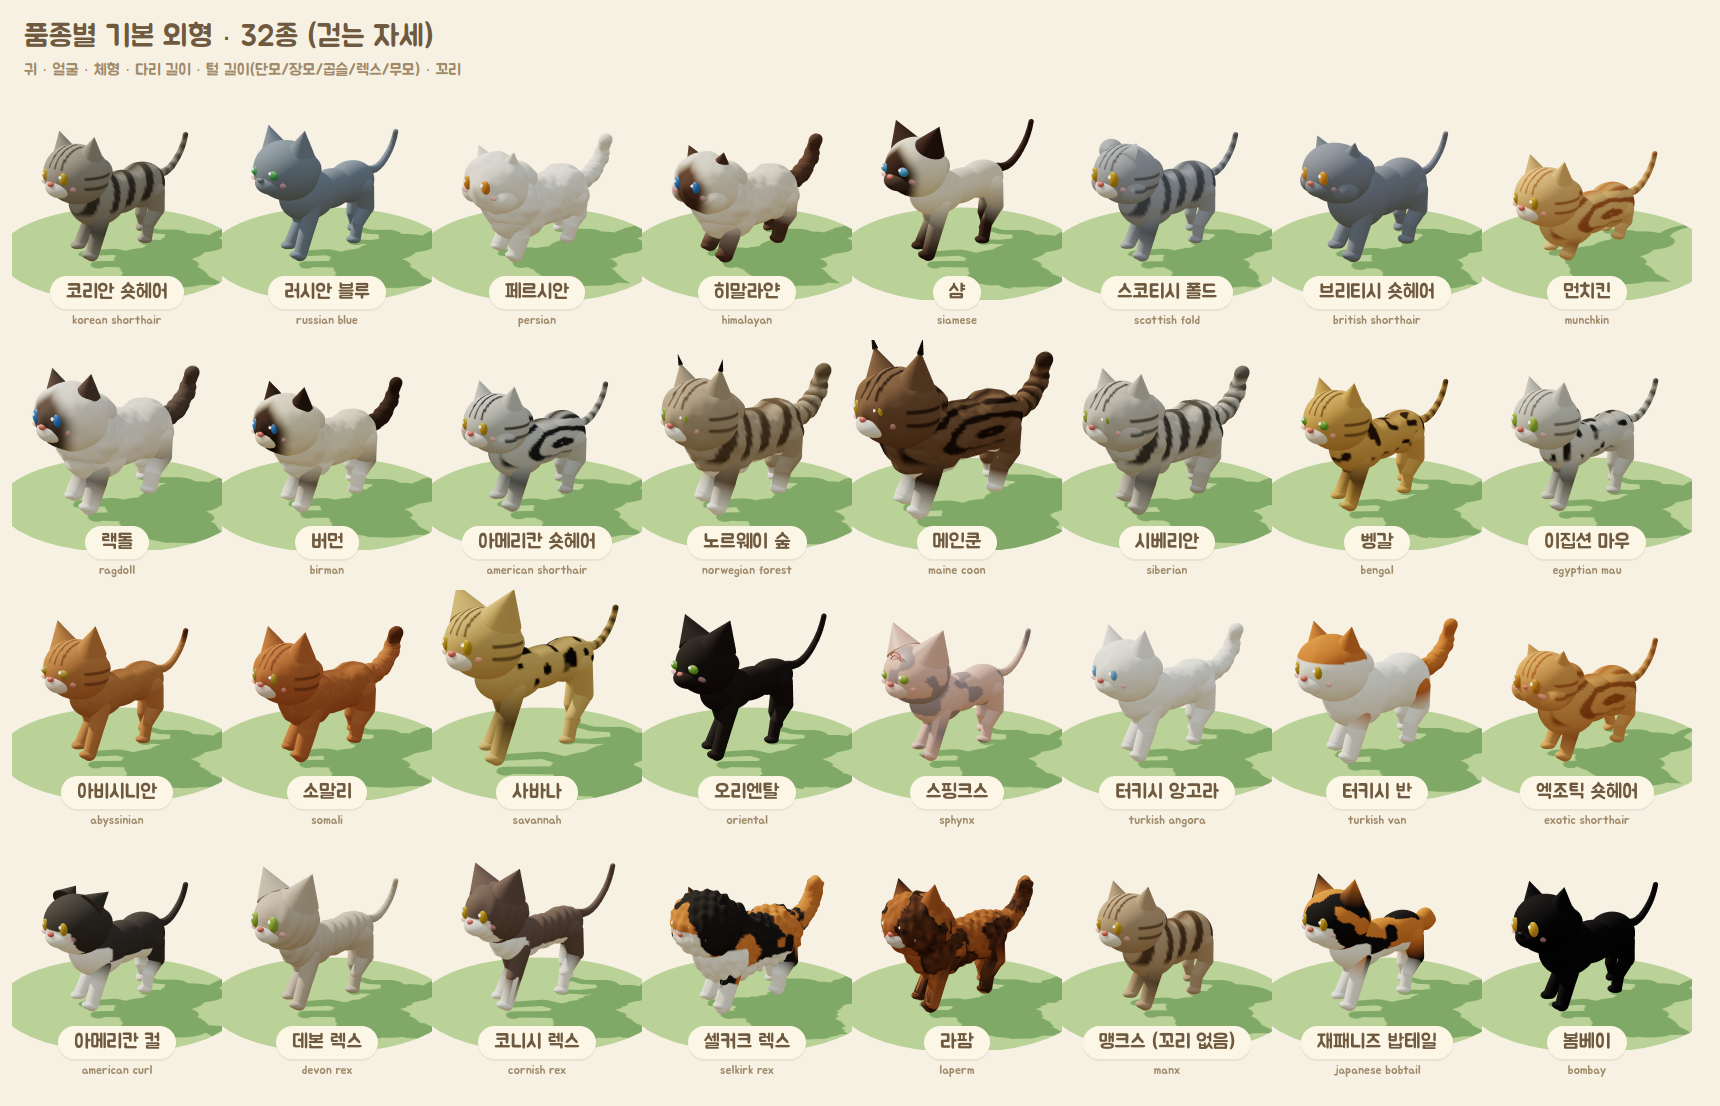
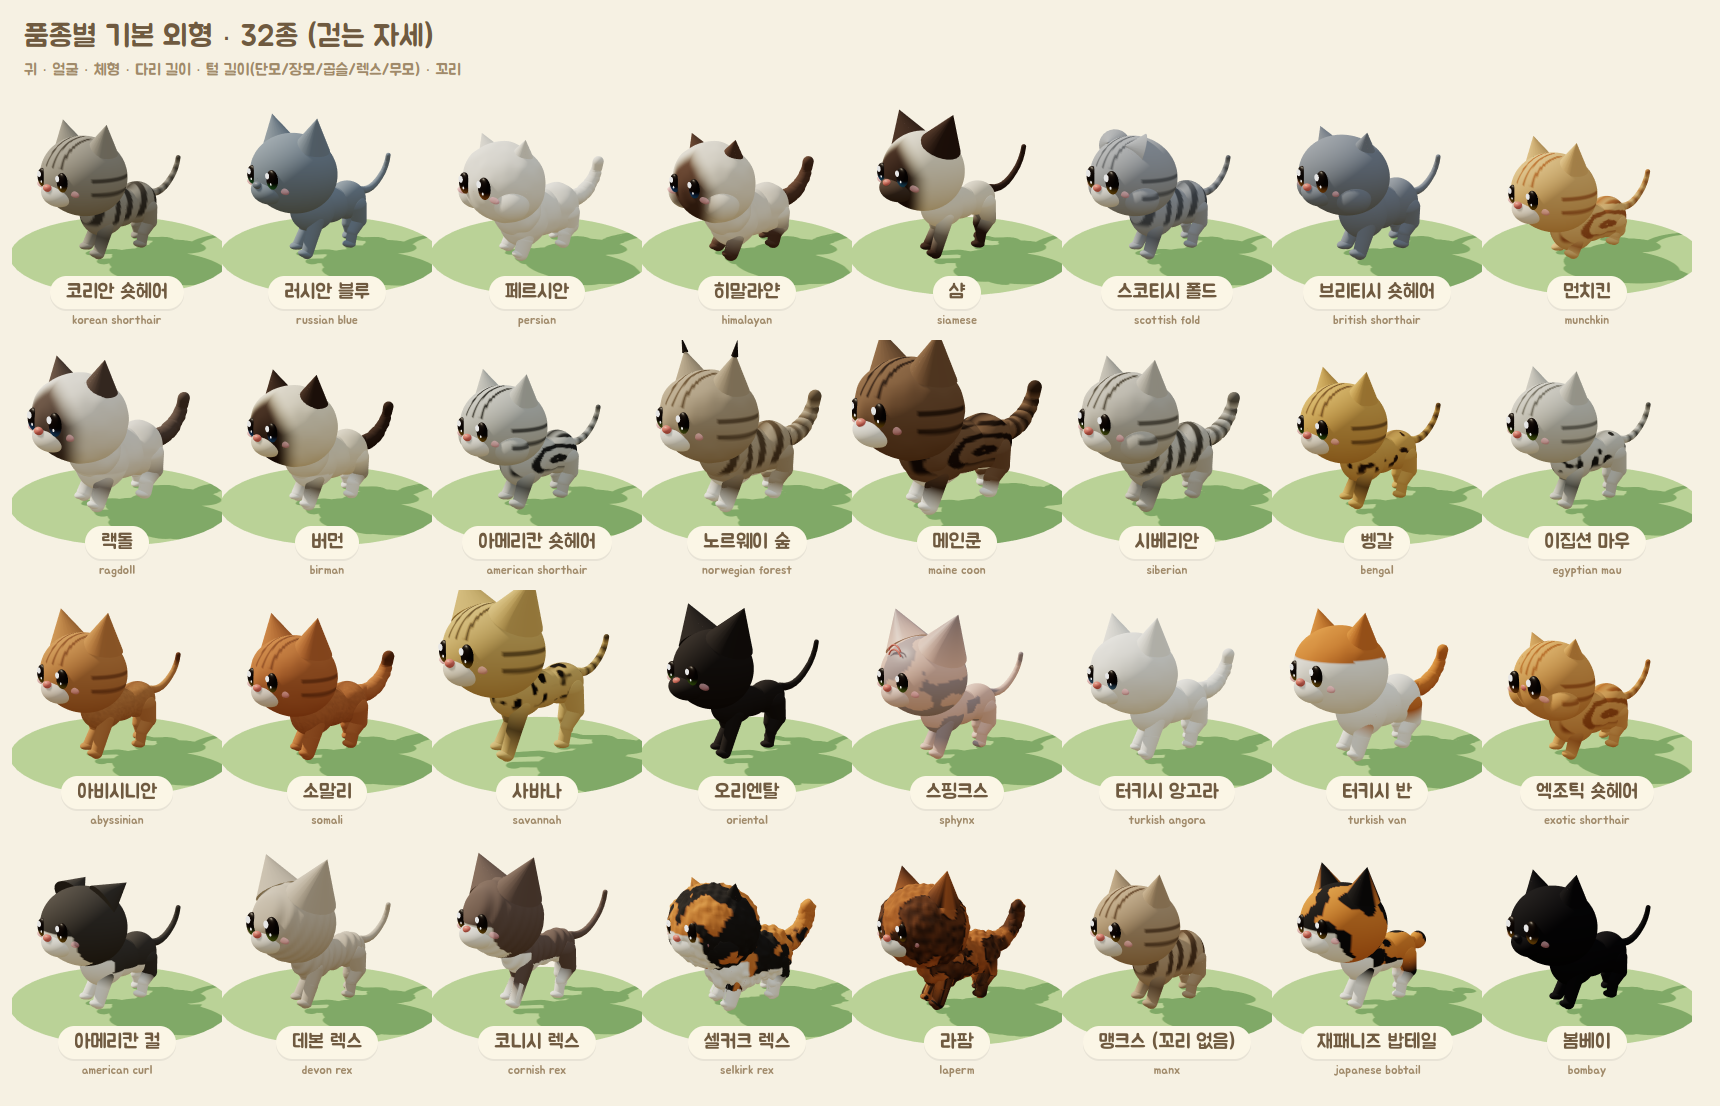
Make cats Animal-Crossing cute: glossy dark eyes, w mouth, chibi proportions
- Replace realistic iris/slit pupils with big dark glossy eyes, two highlights,
  and a soft breed-coloured glow at the bottom of the eye
- Tiny 'w' mouth; bigger head, shorter legs/body while keeping the walking rig
- Smoother long-fur displacement; reframe catalogue and walk-cycle renders
- Add close-up preview page (hero.html) and renders

Claude-Session: https://claude.ai/code/session_015vjHDFNeuhZBMk9pB9WgeS

diff --git a/cat-island/prototype/3d/catgen.js b/cat-island/prototype/3d/catgen.js
@@ -139,7 +139,7 @@ function furify(geo, fur, k = 0) {
   for (let i = 0; i < pos.count; i++) {
     v.fromBufferAttribute(pos, i); n.fromBufferAttribute(nor, i);
     let off = 0;
-    if (fur.type === 'long') off = fur.amount * .09 * (fbm(v.x * 5 + k, v.y * 5, v.z * 5) - .3);
+    if (fur.type === 'long') off = fur.amount * .06 * (fbm(v.x * 3.5 + k, v.y * 3.5, v.z * 3.5) - .3);
     else if (fur.type === 'curly') off = fur.amount * (.035 + .05 * Math.pow(vnoise(v.x * 16 + k, v.y * 16, v.z * 16), 2) + .02 * Math.sin(v.x * 40) * Math.sin(v.z * 40));
     else if (fur.type === 'rex') off = fur.amount * .012 * Math.sin(v.z * 46 + v.y * 20);
     v.addScaledVector(n, off);
@@ -171,7 +171,7 @@ function mk(geo, part, info, mat = MAT) {
 
 // ------------------------------------------------------------------ shape
 export const SHAPE_DEFAULT = {
-  size: 1, headSize: 1, headW: 1.08, faceFlat: 0, cheek: 0, muzzleLen: 1,
+  size: 1, headSize: 1.5, headW: 1.08, faceFlat: 0, cheek: 0, muzzleLen: 1,
   ear: 'upright', earSize: 1, earTuft: 0,
   eyeSize: 1, eyeShape: 'round',
   bodyLen: 1, bodyBulk: 1, legLen: 1, legBulk: 1,
@@ -187,7 +187,7 @@ export function buildCat(shapeIn, coatSpec) {
   const fur = { type: s.fur, amount: s.furAmount };
   const hairless = s.fur === 'none';
   const bodyMat = hairless ? MAT_SKIN : MAT;
-  const L = s.legLen, B = s.bodyBulk, BL = s.bodyLen;
+  const L = s.legLen * .8, B = s.bodyBulk, BL = s.bodyLen * .82;
 
   const root = new THREE.Group();
   const rig = { root, legs: {}, tail: [] };
@@ -269,11 +269,11 @@ export function buildCat(shapeIn, coatSpec) {
   // neck + head
   const neck = new THREE.Group(); neck.position.set(0, .2, .62 * BL); body.add(neck); rig.neck = neck;
   {
-    const g = capsuleY(.17 * B * fluffy, .2 * B * fluffy, .26, 32); g.rotateX(Math.PI * .78);
+    const g = capsuleY(.17 * B * fluffy, .2 * B * fluffy, .14, 32); g.rotateX(Math.PI * .78);
     if (!hairless) furify(g, fur, 5);
     neck.add(mk(g, 'body', 'bodyNorm', bodyMat));
   }
-  const head = new THREE.Group(); head.position.set(0, .2, .2); neck.add(head); rig.head = head;
+  const head = new THREE.Group(); head.position.set(0, .26 * s.headSize, .16 * s.headSize); neck.add(head); rig.head = head;
   const HS = .42 * s.headSize;
   {
     const g = ellipsoid(HS, s.headW, .9, .92 - s.faceFlat * .1, 96);
@@ -316,18 +316,25 @@ export function buildCat(shapeIn, coatSpec) {
     head.add(mk(mz, 'muzzle', 'headDir', bodyMat));
     const ng = ellipsoid(HS * .1, 1.25, .8, .8, 20); ng.translate(0, -HS * .14 + flat * HS * .1, HS * (.97 - flat * .2) * Math.min(1, s.muzzleLen * .1 + .9));
     head.add(mk(ng, 'nose', null, MAT_GLOSS));
+    // mouth: a tiny 'w' under the nose
     for (const x of [-1, 1]) {
-      const er = HS * .17 * s.eyeSize;
-      const almond = s.eyeShape === 'almond';
-      const ig = ellipsoid(er, almond ? 1.2 : .92, almond ? .78 : 1.08, .5, 32);
-      ig.translate(x * HS * .4, HS * .05, HS * .82 - flat * HS * .06);
-      head.add(mk(ig, 'eye', null, MAT_GLOSS));
-      const pg = ellipsoid(er * .58, almond ? .7 : .85, 1.18, .5, 24); pg.translate(x * HS * .4, HS * .05, HS * .85 - flat * HS * .06);
-      const pupil = new THREE.Mesh(pg, new THREE.MeshStandardMaterial({ color: '#1d1714', roughness: .3 })); head.add(pupil);
-      const hl = new THREE.Mesh(new THREE.SphereGeometry(er * .28, 12, 10), new THREE.MeshBasicMaterial({ color: '#fff' }));
-      hl.position.set(x * HS * .4 - er * .3, HS * .05 + er * .35, HS * .9 - flat * HS * .06); head.add(hl);
-      const bl = new THREE.Mesh(new THREE.SphereGeometry(HS * .14, 16, 12), new THREE.MeshStandardMaterial({ color: '#f5a3b5', roughness: 1, transparent: true, opacity: .55 }));
-      bl.scale.set(1.3, .55, .3); bl.position.set(x * HS * .62, -HS * .22, HS * .7); head.add(bl);
+      const m = new THREE.TorusGeometry(HS * .055, HS * .014, 8, 20, Math.PI);
+      m.rotateZ(Math.PI); m.translate(x * HS * .055, -HS * .2 + flat * HS * .1, HS * (.93 - flat * .2));
+      head.add(mk(m, 'mouth', null, MAT_GLOSS));
+    }
+    for (const x of [-1, 1]) {
+      // big, round, glossy dark eyes; the breed's eye colour only glows softly at the bottom
+      const er = HS * .2 * s.eyeSize;
+      const ex = x * HS * .37, ey = HS * .02, ez = HS * (.84 - flat * .05);
+      const ig = ellipsoid(er, s.eyeShape === 'almond' ? .9 : .82, 1.04, .42, 40);
+      ig.translate(ex, ey, ez);
+      head.add(mk(ig, 'eye', { cy: ey, er }, MAT_GLOSS));
+      const big = new THREE.Mesh(new THREE.SphereGeometry(er * .34, 16, 12), new THREE.MeshBasicMaterial({ color: '#ffffff' }));
+      big.scale.set(1, 1, .4); big.position.set(ex - x * er * .1 - er * .2, ey + er * .4, ez + er * .4); head.add(big);
+      const small = new THREE.Mesh(new THREE.SphereGeometry(er * .14, 12, 10), new THREE.MeshBasicMaterial({ color: '#ffffff' }));
+      small.scale.set(1, 1, .4); small.position.set(ex + er * .28, ey - er * .38, ez + er * .38); head.add(small);
+      const bl = new THREE.Mesh(new THREE.SphereGeometry(HS * .13, 16, 12), new THREE.MeshStandardMaterial({ color: '#f7a3b6', roughness: 1, transparent: true, opacity: .6 }));
+      bl.scale.set(1.35, .55, .3); bl.position.set(x * HS * .62, -HS * .2, HS * .72); head.add(bl);
     }
   }
 
@@ -347,7 +354,11 @@ export function buildCat(shapeIn, coatSpec) {
       const p = w.copy(v).applyMatrix4(m).clone();
       let info = o.userData.info, c;
       if (o.userData.part === 'tuft') c = C('#3a302a');
-      else {
+      else if (o.userData.part === 'mouth') c = C('#3a2a24');
+      else if (o.userData.part === 'eye') {
+        const t = (v.y - info.cy) / info.er;
+        c = C('#271c18').lerp(colorAt('eye'), .5 * sstep(-.15, -.95, t));
+      } else {
         if (info === 'bodyNorm') info = bodyNorm(p);
         else if (info === 'headDir') info = { dir: v.clone().applyMatrix4(mh).normalize() };
         else if (info && info.len !== undefined) {

diff --git a/cat-island/prototype/3d/hero.html b/cat-island/prototype/3d/hero.html
@@ -1,0 +1,25 @@
+<!doctype html>
+<html lang="ko"><head><meta charset="utf-8"><style>body{margin:0;background:#f6f1e3}</style></head><body><div id="w"></div>
+<script type="importmap">{ "imports": { "three": "./node_modules/three/build/three.module.js" } }</script>
+<script type="module">
+import * as THREE from 'three';
+import { buildCat, setPose, BREEDS } from './catgen.js';
+const q = new URLSearchParams(location.search);
+const ids = (q.get('ids') || 'scottish_fold').split(',');
+const CW = 420, CH = 420, W = CW * ids.length;
+const r = new THREE.WebGLRenderer({ antialias: true, alpha: true, preserveDrawingBuffer: true });
+r.setPixelRatio(2); r.setSize(W, CH); r.shadowMap.enabled = true; r.shadowMap.type = THREE.PCFSoftShadowMap;
+r.outputColorSpace = THREE.SRGBColorSpace; r.toneMapping = THREE.ACESFilmicToneMapping; r.setScissorTest(true);
+w.appendChild(r.domElement);
+ids.forEach((id, i) => {
+  const b = BREEDS.find(x => x.id === id);
+  const scene = new THREE.Scene();
+  scene.add(new THREE.HemisphereLight('#f2fbff', '#c9b892', 1.35));
+  const sun = new THREE.DirectionalLight('#fff4dc', 2); sun.position.set(-3, 6, 5); sun.castShadow = true; sun.shadow.radius = 4; scene.add(sun);
+  const g = new THREE.Mesh(new THREE.CircleGeometry(2, 48), new THREE.MeshStandardMaterial({ color: '#a8db84' })); g.rotation.x = -Math.PI / 2; g.receiveShadow = true; scene.add(g);
+  const cat = buildCat(b.shape, b.coat); setPose(cat, 'walk', .1); cat.rotation.y = .6; scene.add(cat);
+  const cam = new THREE.PerspectiveCamera(22, 1, .1, 50); cam.position.set(4.4, 2.3, 3.4); cam.lookAt(0, .85, .2);
+  r.setViewport(i * CW, 0, CW, CH); r.setScissor(i * CW, 0, CW, CH); r.render(scene, cam);
+});
+window.__done = true;
+</script></body></html>

diff --git a/cat-island/prototype/3d/catalog.html b/cat-island/prototype/3d/catalog.html
@@ -56,9 +56,9 @@ items.forEach((it, i) => {
   scene.add(sun);
   const ground = new THREE.Mesh(new THREE.CircleGeometry(1.7, 48), new THREE.MeshStandardMaterial({ color: '#a8db84', roughness: 1 }));
   ground.rotation.x = -Math.PI / 2; ground.receiveShadow = true; scene.add(ground);
-  const cat = buildCat(it.shape, it.coat); setPose(cat, 'walk', .12); cat.rotation.y = .55; scene.add(cat);
+  const cat = buildCat(it.shape, it.coat); setPose(cat, 'walk', .12); cat.rotation.y = .42; scene.add(cat);
   const cam = new THREE.PerspectiveCamera(24, CW / (CH - 40), .1, 50);
-  cam.position.set(6.4, 2.7, 1.6); cam.lookAt(0, .74, .05);
+  cam.position.set(7.0, 2.7, 2.2); cam.lookAt(0, .86, .05);
   const col = i % COLS, row = Math.floor(i / COLS);
   const x = 12 + col * CW, y = H - (row + 1) * CH;
   renderer.setViewport(x, y + 40, CW, CH - 40); renderer.setScissor(x, y + 40, CW, CH - 40);

diff --git a/cat-island/prototype/3d/walk.html b/cat-island/prototype/3d/walk.html
@@ -23,7 +23,7 @@ for (let row = 0; row < 2; row++) for (let i = 0; i < N; i++) {
   const g = new THREE.Mesh(new THREE.CircleGeometry(1.6, 48), new THREE.MeshStandardMaterial({ color: '#a8db84' })); g.rotation.x = -Math.PI / 2; g.receiveShadow = true; scene.add(g);
   const cat = buildCat(b.shape, b.coat); setPose(cat, 'walk', i / N); scene.add(cat);
   const cam = new THREE.PerspectiveCamera(24, 1, .1, 50);
-  if (row === 0) { cam.position.set(7.2, 1.3, .25); cam.lookAt(0, .72, .25); } else { cam.position.set(4.8, 2.9, 4.0); cam.lookAt(0, .72, .1); }
+  if (row === 0) { cam.position.set(7.2, 1.3, .25); cam.lookAt(0, .8, .3); } else { cam.position.set(4.8, 2.6, 4.4); cam.lookAt(0, .78, .15); }
   r.setViewport(i * CW, (1 - row) * CH, CW, CH); r.setScissor(i * CW, (1 - row) * CH, CW, CH); r.render(scene, cam);
 }
 window.__done = true;

diff --git a/cat-island/docs/CAT_CATALOG.md b/cat-island/docs/CAT_CATALOG.md
@@ -14,6 +14,13 @@
 ![품종 프리셋 32종](images/breeds_3d.png)
 ![털 무늬 프리셋](images/coats_3d.png)
 ![걷기 동작](images/walk_cycle.png)
+![얼굴 클로즈업](images/hero_cats.png)
+
+**얼굴 원칙 (동물의 숲 스타일):**
+- 눈은 크고 동그란 까만 유광 눈에 큰 하이라이트와 작은 하이라이트를 넣는다.
+- 품종별 눈 색은 눈 아래쪽에 은은하게만 비친다. 세로 동공과 사실적인 홍채는 쓰지 않는다.
+- 작은 ω 입과 볼터치를 넣는다.
+- 머리 대 몸 비율을 키운 아기자기한 비율(머리 1.5배, 다리 0.8배)을 쓰되, 네 발 보행 구조는 유지한다.
 
 ## 0. 모델 구조 (움직임 고려)
 
@@ -67,7 +74,7 @@ root
 | `headW` / `headH` | 머리 가로·세로 | 브리티시는 넓게, 샴은 좁게 |
 | `faceFlat` | 납작한 얼굴 | 0 ~ 1 (페르시안, 엑조틱) |
 | `cheek` | 볼살 | 0 ~ 1 (브리티시, 엑조틱) |
-| `eyeSize` / `eyeShape` | 눈 크기와 모양 | `round` / `almond` (러시안 블루, 샴, 벵갈) |
+| `eyeSize` / `eyeShape` | 눈 크기와 모양 | 기본은 크고 둥근 까만 눈, `almond`는 살짝 넓게 / `eye` 색은 눈 아래쪽에 은은하게 반영 |
 | `size` | 전체 크기 | 메인쿤 1.22, 사바나 1.15 |
 | `bodyLen` / `bodyBulk` | 몸 길이와 체격 | 0.78 오리엔탈 ~ 1.15 브리티시 |
 | `legLen` / `legBulk` | 다리 길이와 굵기 | 0.5 먼치킨 ~ 1.35 사바나 |
